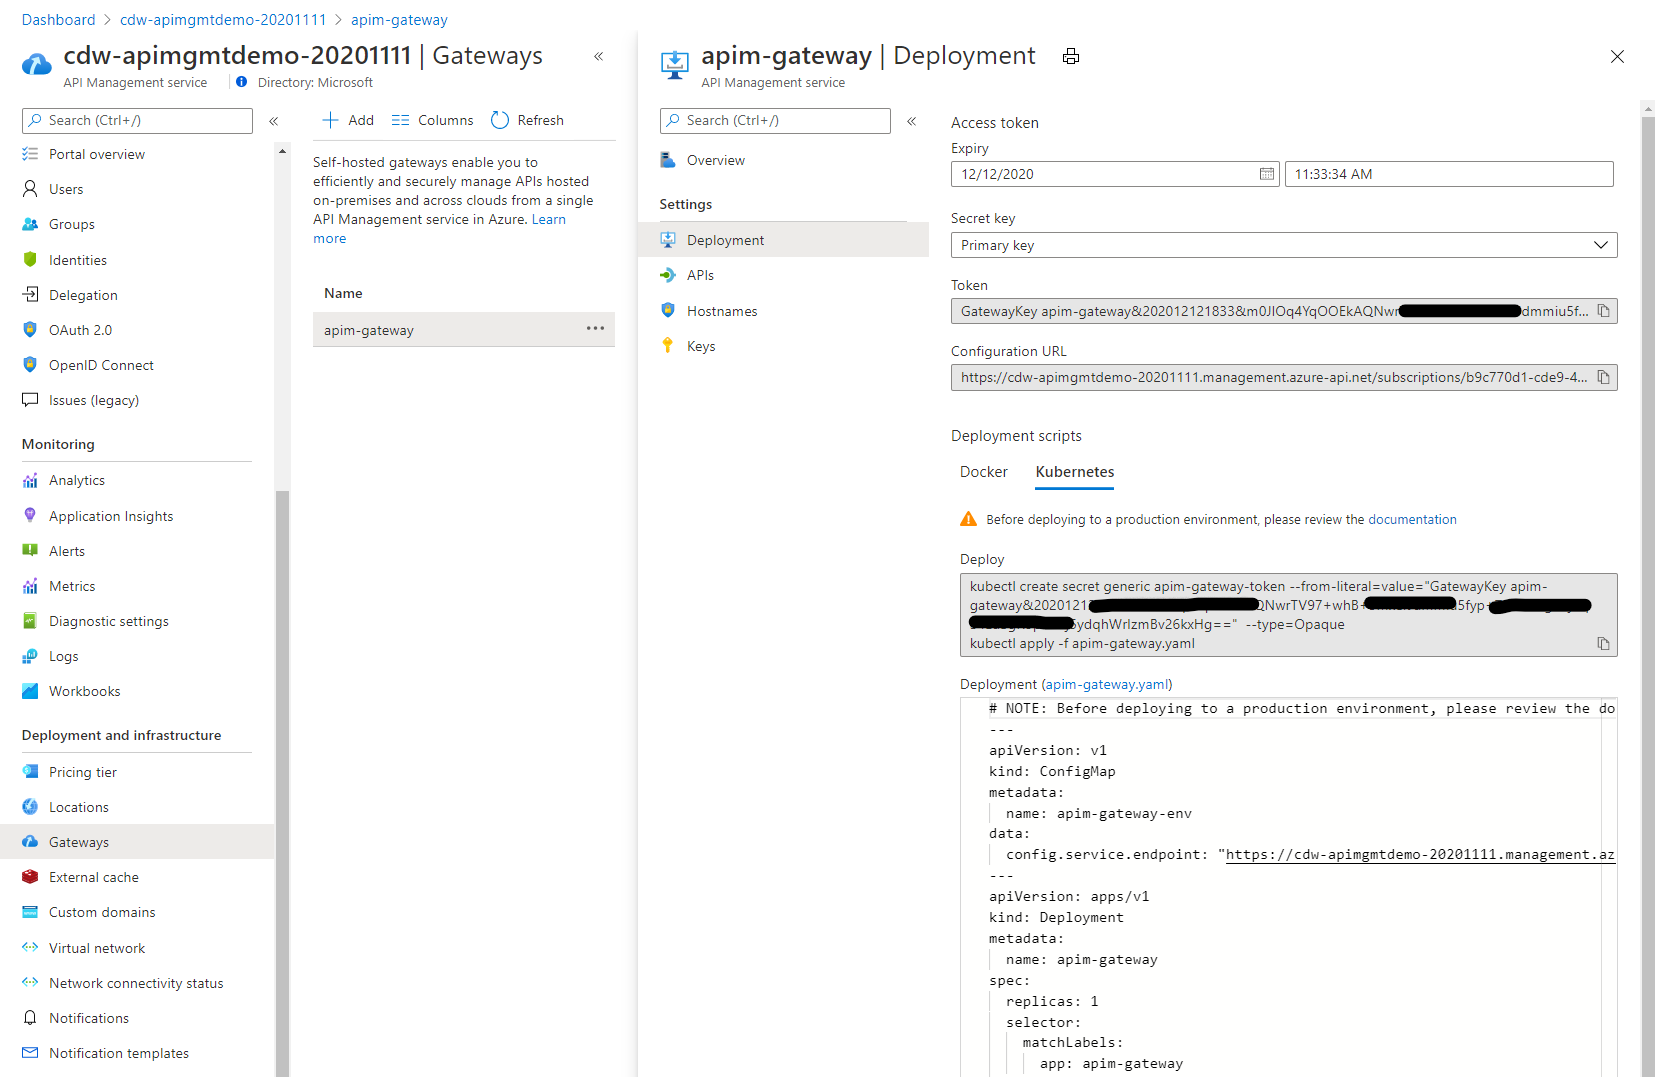
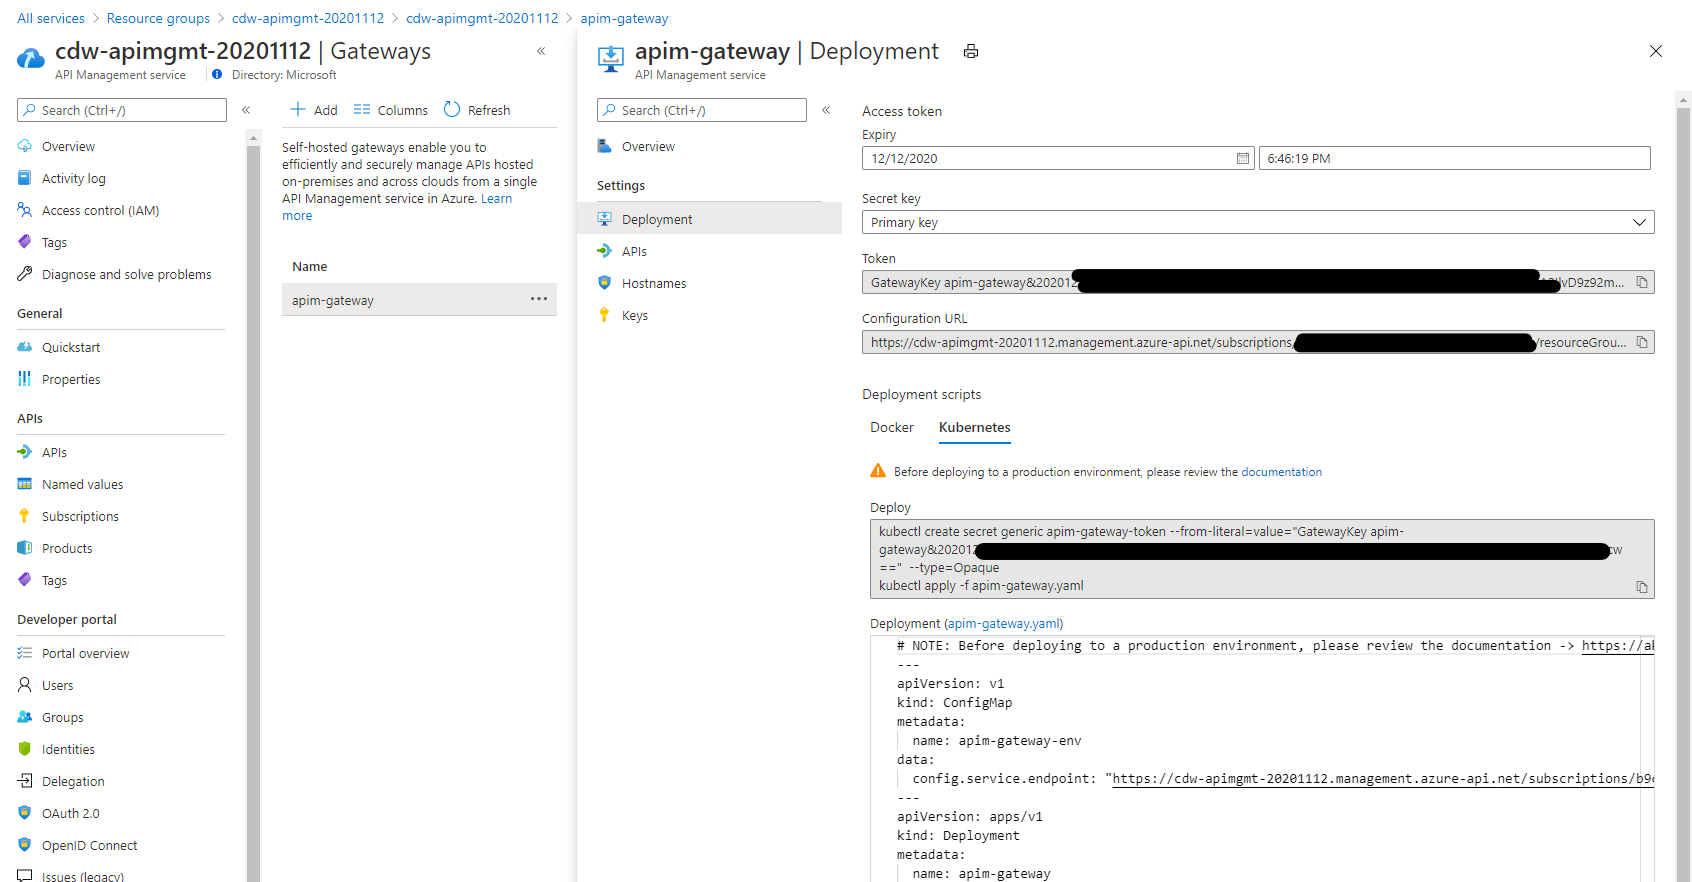
Checking in missed files

Changed region(s): [[0.4931, 0.0918, 1.0, 1.0], [0.0, 0.0, 0.6471, 1.0], [0.7088, 0.1531, 0.832, 0.1837]]

diff --git a/03_self-hosted-gateway/README.md b/03_self-hosted-gateway/README.md
@@ -2,17 +2,17 @@
 
 We need to provision the self-hosted gateway in the APIM service.
 
-> NOTE: Provisioning the API Self-hosted gateway is still a manual process through the portal. Eventually, this will 
+> NOTE: Provisioning the API Self-hosted gateway is still a manual process through the portal. Eventually, this will
 > be available through the Azure CLI, Terraform, etc.
 
 ## Provision the Gateway
 
-![Image of API Self-Hosted Gateway Creation](/assets/apim-gateway-screenshot.png)
+![Image of API Self-Hosted Gateway Creation](/assets/apim-gateway-screenshot-1.png)
 
 Values might look like:
 
-* _Name_ => apim-gateway  
-* _Location_ => arc-enabled-cluster  
+* _Name_ => apim-gateway
+* _Location_ => arc-enabled-cluster
 * _Description_ => This is the on-prem APIM self-hosted gateway for a Kubernetes cluster.
 
 ## Get the Install and Config Info
@@ -25,4 +25,3 @@ For the sake of this demo, we split this configuration up into the following fil
 
 * [config.yaml](/04_cluster-config/config-sample.yaml) - this is where we will apply our secrets to the cluster.
 * [gateway.yaml](/flux/apim-gateway/gateway.yaml) - this is how we will deploy the gateway itself to Kubernetes.
-

diff --git a/05_azure-arc/README.md b/05_azure-arc/README.md
@@ -20,10 +20,6 @@ az extension update --name k8sconfiguration
 > NOTE: This requires the `$NAME` and `$LOCATION` variables set from the [prerequisites](/00_prequisites/README.md).
 
 ```bash
-# Make sure you have logged into the cluster before executing the final step.
-az aks get-credentials -g $NAME -n $NAME
-
-# Setup the connectiont to Azure Arc
 az connectedk8s connect --resource-group $NAME --name $NAME --location $LOCATION
 ```
 
@@ -40,8 +36,8 @@ Azure Arc enables quick and easy configuration of FluxCD on your cluster.
 # --cluster-name $NAME \
 # --resource-group $NAME \
 # --operator-instance-name apim-demo \
-# --operator-namespace cluster-config \
-# --repository-url https://github.com/Azure/arc-k8s-demo \
+# --operator-namespace apim-demo \
+# --repository-url https://github.com/cwiederspan/apim-fulldemo-20201111.git \
 # --scope cluster \
 # --cluster-type connectedClusters \
 # --enable-helm-operator true \

diff --git a/01_apim-instance/README.md b/01_apim-instance/README.md
@@ -15,6 +15,6 @@ az apim create \
   --sku-name Developer \
   --virtual-network External
 
-  [--enable-client-certificate {false, true}]
-  [--enable-managed-identity {false, true}]
+  # [--enable-client-certificate {false, true}]
+  # [--enable-managed-identity {false, true}]
 ```

diff --git a/00_prerequisites/README.md b/00_prerequisites/README.md
@@ -5,7 +5,7 @@
 These variables will be used throughout the demo.
 
 ```bash
-NAME=cdw-apimgmtdemo-20201111
+NAME=cdw-apimgmt-20201112
 
 # Azure Arc is limited to East US (among a few others), so use it
 LOCATION=eastus
